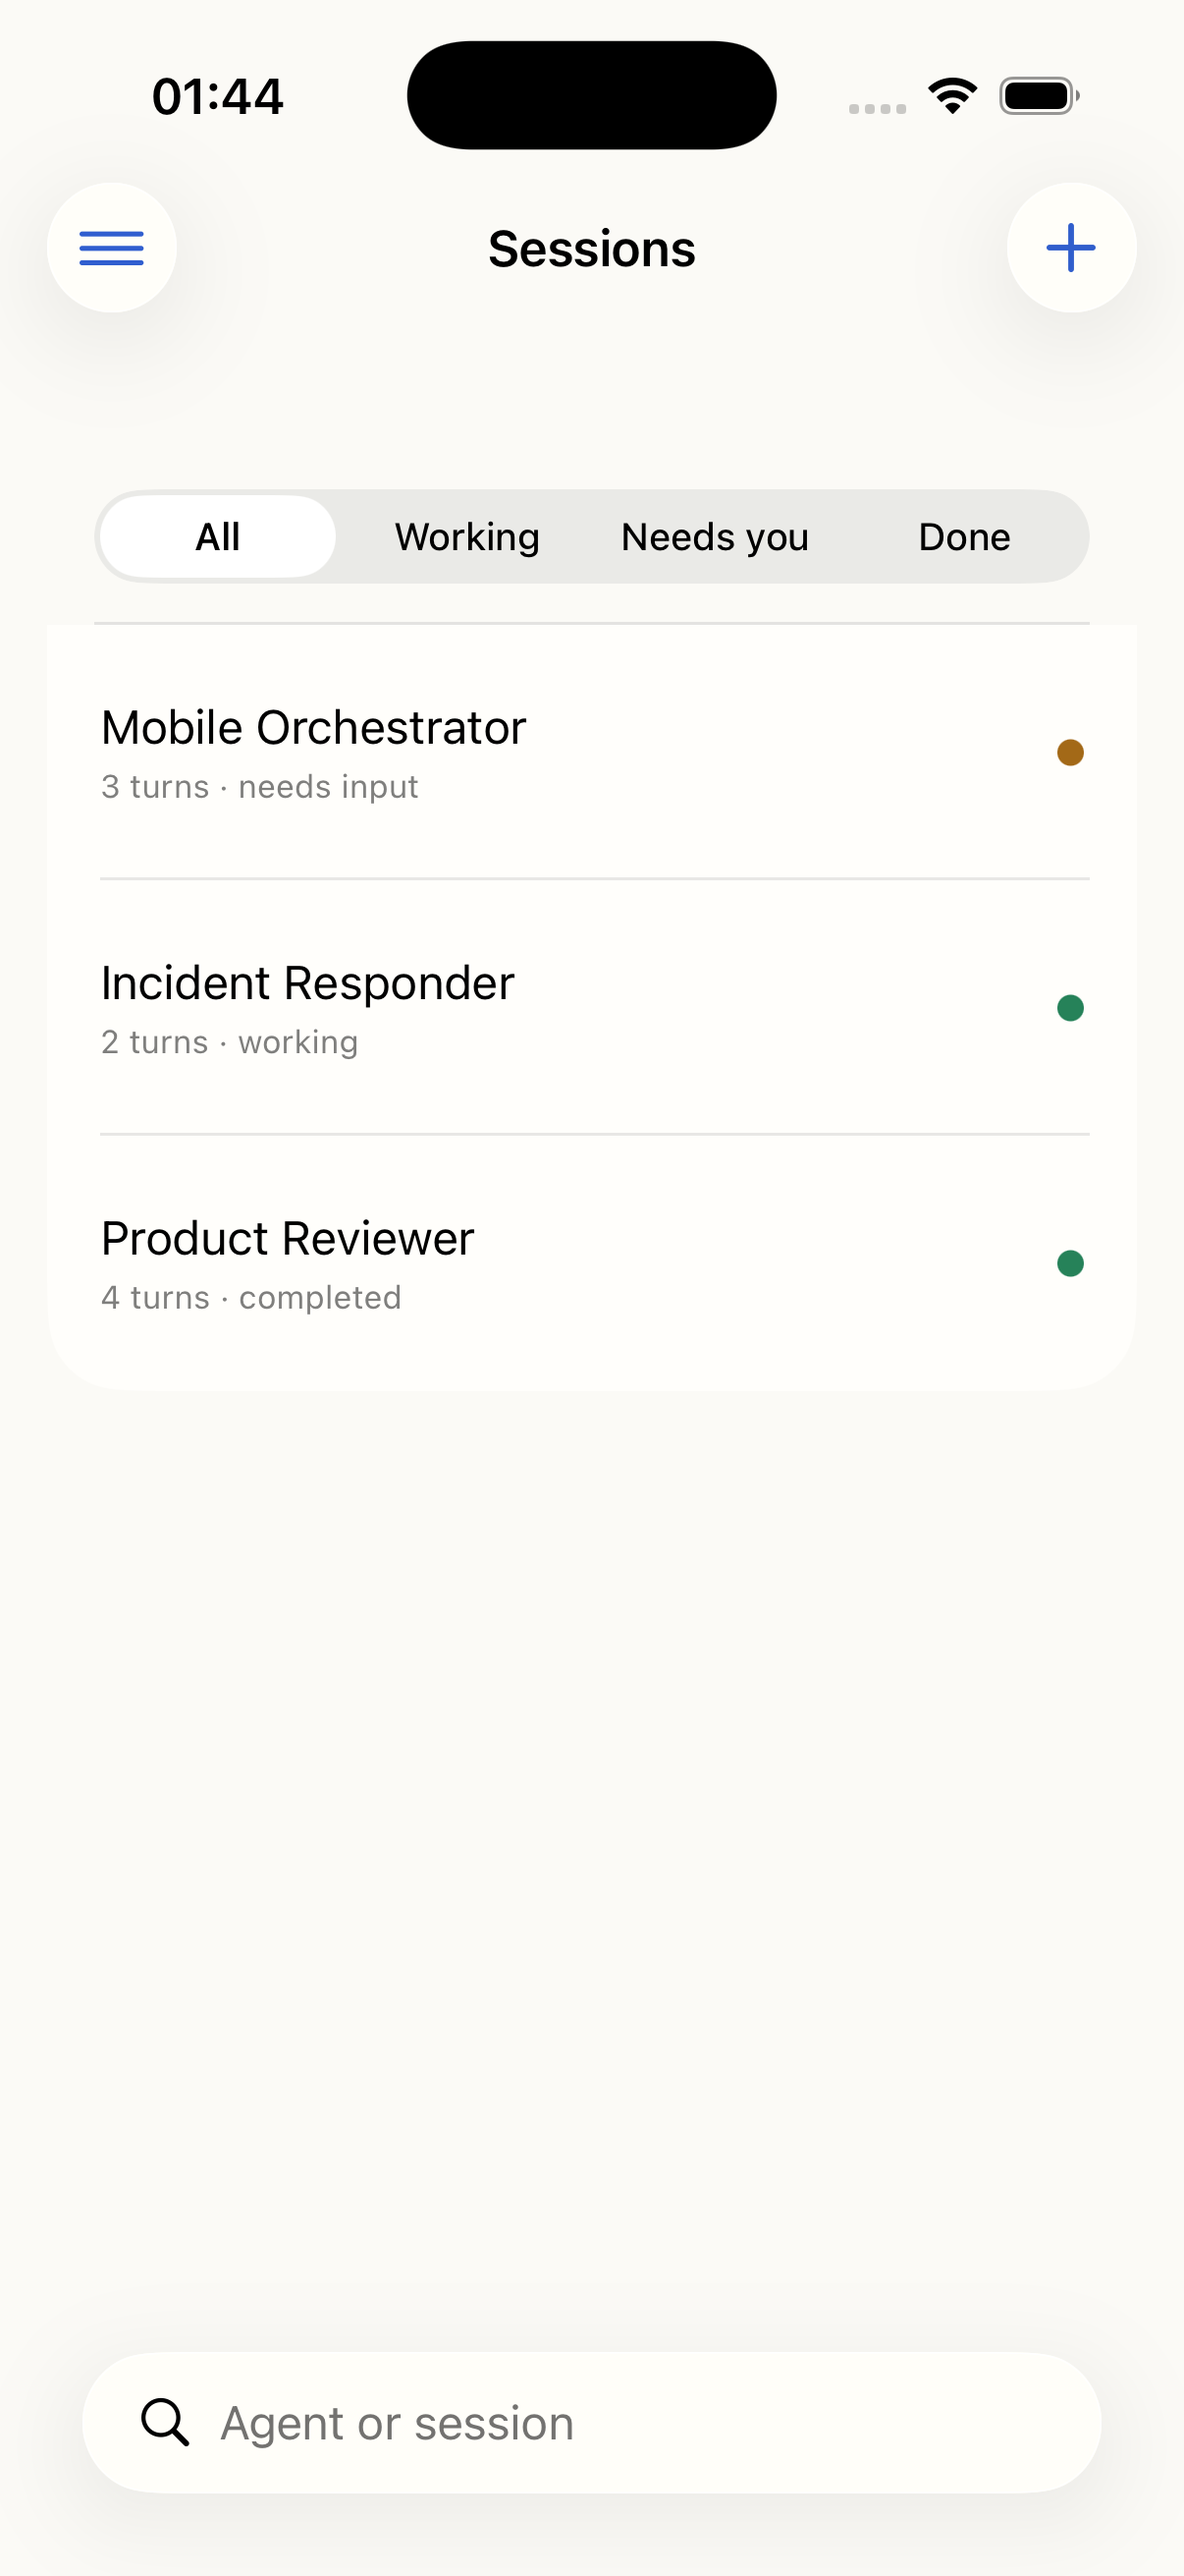
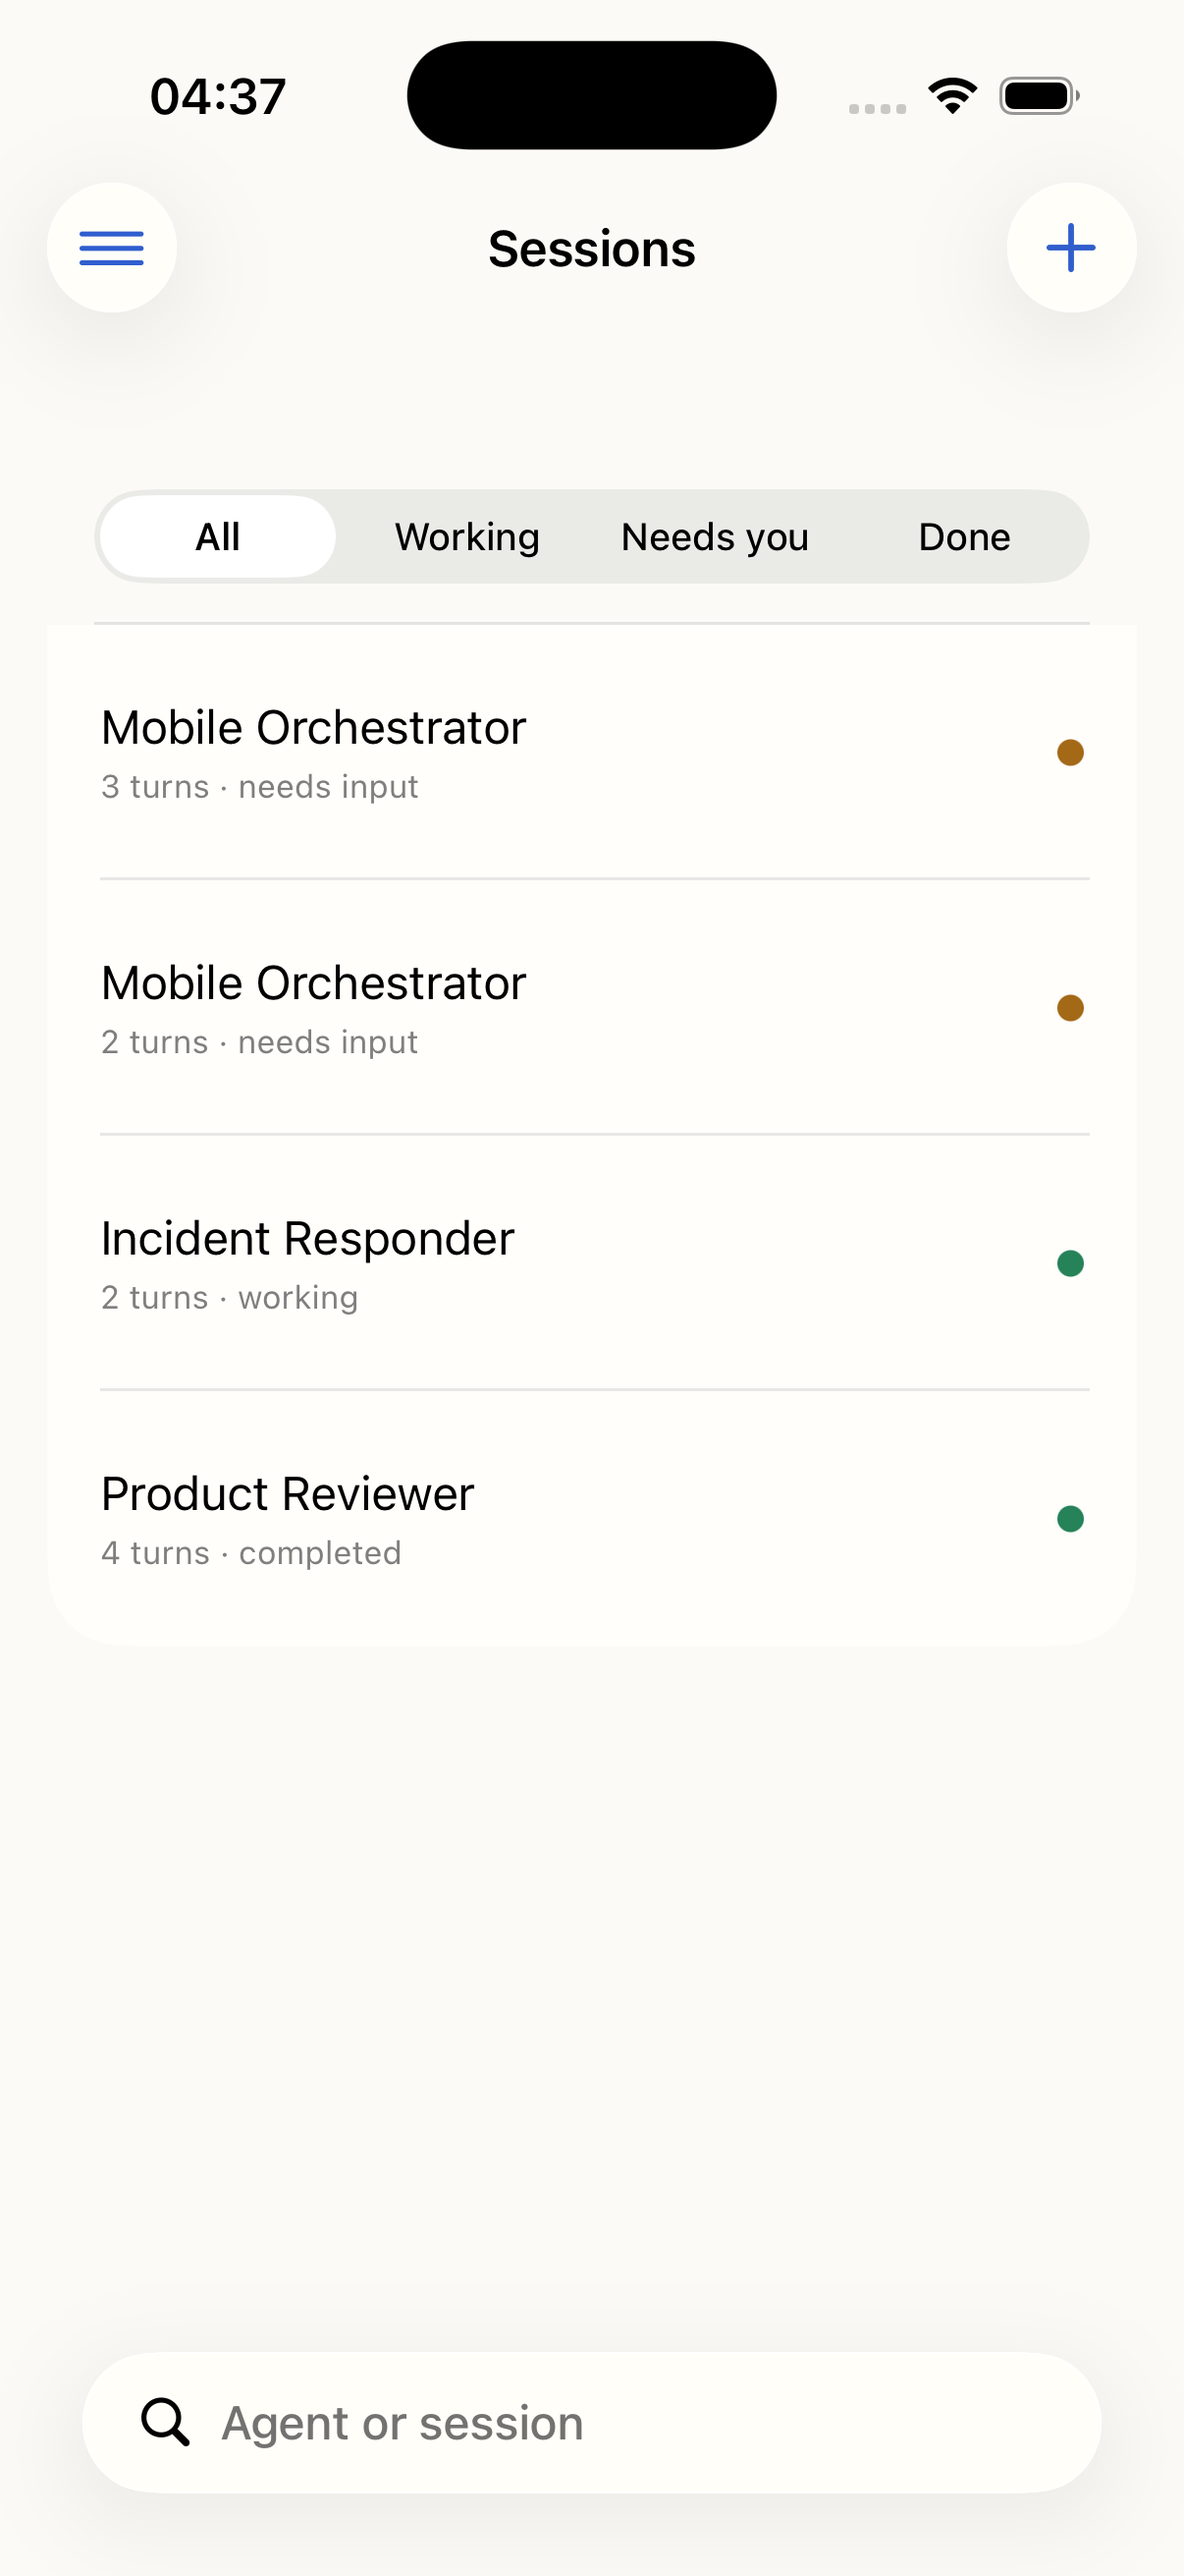
fix: present complete iOS task creation

diff --git a/mobile/iosApp/Sources/GariveIOS/TaskViews.swift b/mobile/iosApp/Sources/GariveIOS/TaskViews.swift
@@ -47,7 +47,9 @@ struct NewTaskView: View {
                     }
                 }
                 Section("Goal") {
-                    TextEditor(text: $prompt).frame(minHeight: 150)
+                    TextEditor(text: $prompt)
+                        .frame(minHeight: 150)
+                        .accessibilityLabel("Outcome for the Agent")
                     Text("Be specific about the outcome. The agent keeps working on your service if this app closes.")
                         .font(.footnote).foregroundStyle(.secondary)
                     if prompt.utf8.count > maxInputBytes {
@@ -76,7 +78,7 @@ struct NewTaskView: View {
                 prompt = model.state?.draft ?? ""
             }
             .onChange(of: prompt) { _, value in model.editDraft(value) }
-        }.presentationDetents(dynamicTypeSize.isAccessibilitySize ? [.large] : [.medium, .large])
+        }.presentationDetents([.large])
     }
 
     private var selectedID: String { definitionID.isEmpty ? agents.first?.definitionId ?? "" : definitionID }

diff --git a/mobile/iosApp/UITests/GariveIOSUITests.swift b/mobile/iosApp/UITests/GariveIOSUITests.swift
@@ -24,6 +24,9 @@ final class GariveIOSUITests: XCTestCase {
             app.navigationBars["New remote task"].waitForExistence(timeout: 2)
                 || app.navigationBars["New task"].waitForExistence(timeout: 2)
         )
+        let goal = app.textViews["Outcome for the Agent"]
+        XCTAssertTrue(goal.waitForExistence(timeout: 2))
+        XCTAssertTrue(goal.isHittable)
         let form = app.collectionViews.firstMatch
         let synthesize = starterButton("Synthesize", in: app)
         XCTAssertTrue(reveal(synthesize, in: form))

diff --git a/scripts/verify-mobile-evidence.py b/scripts/verify-mobile-evidence.py
@@ -49,21 +49,39 @@ def android_source_digest() -> str:
     return digest_files(paths)
 
 
+def ios_source_digest() -> str:
+    paths: list[Path] = []
+    for base in (
+        ROOT / "mobile/iosApp/Sources/GariveIOS",
+        ROOT / "mobile/shared/src/commonMain",
+    ):
+        paths.extend(path for path in base.rglob("*") if path.is_file())
+    paths.extend((
+        ROOT / "mobile/iosApp/GariveIOS.xcodeproj/project.pbxproj",
+        ROOT / "runtime/gateway/cmd/garive-mobile-demo-host/main.go",
+    ))
+    return digest_files(paths)
+
+
 def verify_candidate_evidence() -> None:
     evidence = json.loads(CANDIDATE_EVIDENCE.read_text())
     if evidence.get("schema_version") != 1:
         raise ValueError("unsupported mobile candidate-evidence schema")
-    actual_source = android_source_digest()
-    if evidence.get("android_source_digest") != actual_source:
+    if evidence.get("android_source_digest") != android_source_digest():
         raise ValueError("Android core screenshots must be recaptured after candidate source changes")
+    if evidence.get("ios_source_digest") != ios_source_digest():
+        raise ValueError("iOS core screenshots must be recaptured after candidate source changes")
     required = {
         "android-03-sessions.png",
         "android-05-new-task.png",
         "android-09-steering.png",
+        "ios-03-sessions.png",
+        "ios-05-new-task.png",
+        "ios-17-steering.png",
     }
     screenshots = evidence.get("screenshots", {})
     if set(screenshots) != required:
-        raise ValueError("Android core candidate evidence is incomplete")
+        raise ValueError("native core candidate evidence is incomplete")
     for name, expected in screenshots.items():
         path = ASSETS / name
         actual_hash = hashlib.sha256(path.read_bytes()).hexdigest()
@@ -82,8 +100,8 @@ def verify(artifacts: bool) -> None:
             f"mobile screenshot drift; missing={sorted(references - files)}, "
             f"unreferenced={sorted(files - references)}"
         )
-    if len(files) != 37 or "当前手册包含 37 张实际运行截图" not in text:
-        raise ValueError(f"manual must contain and declare exactly 37 screenshots, found {len(files)}")
+    if len(files) != 38 or "当前手册包含 38 张实际运行截图" not in text:
+        raise ValueError(f"manual must contain and declare exactly 38 screenshots, found {len(files)}")
 
     required = {
         "android-02-work-light.png",
@@ -114,7 +132,7 @@ def verify(artifacts: bool) -> None:
             raise ValueError(f"missing mobile delivery source: {path.relative_to(ROOT)}")
 
     status = (ROOT / "spec/STATUS.md").read_text()
-    if "complete 37-screenshot user guide" not in status:
+    if "complete 38-screenshot user guide" not in status:
         raise ValueError("spec/STATUS.md does not match the checked-in mobile evidence")
 
     if artifacts:

diff --git a/spec/STATUS.md b/spec/STATUS.md
@@ -75,7 +75,7 @@ planned without reopening a narrower completed row.
 | A-DESKTOP-WA | Governed Workspaces and artifacts | accepted | accepted | documented | partial | partial | active | Complete remaining accessibility/package matrices. Session detach has an idempotent durable receipt and restart-safe projection; global revoke journals a manifest-v2 tombstone and retries Keychain cleanup after restart. Artifact export now journals only bounded opaque pending IDs, removes the exact interrupted temporary when its directory is next explicitly authorized, preserves unrelated files, and never persists or exposes a path. Immutable receipt-bound Artifact projection, digest-verified preview and one-shot no-overwrite export are implemented, and the real SQLite approval-to-file-to-Artifact flow passes. |
 | A-DESKTOP-VE | Desktop visual, journey and manual evidence | accepted | accepted | documented | partial | missing | active | The deterministic evidence verifier, Chinese manual source, eight-page tagged draft and 18-entry outline are implemented. Unlock a supported Mac, execute the stable 62-row M01–M85 full-function capture matrix on the exact candidate, close visual defects, emit a digest-bound safe screenshot manifest, replace every pending marker, and independently verify PDF/UA plus VoiceOver reading order. Deterministic fixtures prove presentation only, never product behavior. |
 | A-MOBILE | KMP/Android/iOS shells | accepted | accepted | documented | implemented | verified | done | Keep KMP real-loopback transport, XCFramework, Swift, Android SDK 36 APK and API 36 Compose instrumentation gates green; remote physical-device connectivity is not claimed. |
-| A-MOBILE-R | Native remote-work mobile product | accepted | accepted | documented | implemented | partial | active | KMP controller, secure pairing, native Compose/SwiftUI product, installable builds, Gateway/private APNs/FCM wake paths, complete 37-screenshot user guide, real native loopback actions, offline/reconnect, desktop-aligned drawer and goal starters, local Session search/status filters, explicit rendered-conversation sharing, paired light Work/dark accessible Work evidence, Android landscape plus persistent-sidebar Android tablet/iPad evidence are verified locally. Ordinary Session rows and accessibility labels hide internal IDs. Agent details are exact and copyable, task creation preserves the selected definition, and remote submission uses one consistent 16 KiB UI/controller input boundary within a 64 KiB command envelope. Android's new-task sheet skips the ambiguous half-expanded state so Agent, starter, goal and Start on server are visible on first presentation at 320×640. Explicit approve/decline, collapsed Activity, multi-Turn append, cancellation and stable dismissible failure banners are directly exercised. Ambiguous mutations persist strict digest-bound identity/input records across process restart, including two-stage create/start recovery, exact retry and warned local abandonment; banner dismissal never clears pending work. Authentication failure returns both native shells to pairing. Pairing links on both platforms now pass one shared canonical HTTPS-origin boundary before presentation; Android singleTop delivery and visible service confirmation are exercised directly. Settings includes persistent theme, system notification controls, verified host, safe diagnostics and confirmed unpair; Android explicit theme choices survive a new platform-store instance, iOS Light and Dark survive application terminate/relaunch, and Android Keystore/Apple Keychain tests prove credential deletion and device-key rotation. Current local gates include 18 standard API 36 native tests plus four opt-in real-HTTP Host journeys (strict pairing links, full-shell Work → Sessions → committed create/start → cancel → second-Turn append, committed approval, committed decline, Light → Dark selection and the native Android share chooser), 9 Swift tests and 7 serial iOS Simulator XCUITests covering secure pairing, Remote navigation, Sessions plus direct local search/status filtering, real loopback create/start → cancel → second-Turn append, committed approval and committed decline, Activity, the native iOS share sheet, persistent Light → Dark → System selection, safe diagnostics, notification entry and confirmed unpair under accessibility-extra-large type. A fail-closed evidence verifier binds all 37 PNGs to the manual plus the native projects/specs/install artifacts, and binds the current Android Sessions/new-task/running-Conversation evidence to exact source and image digests; current Debug APK and arm64 Simulator App both pass cold-install/launch, while unsigned release outputs remain explicitly non-distributable. Close only with physical iOS/Android Gateway-to-Runtime create/reconnect/background/wake/decision/cancel/revoke evidence. |
+| A-MOBILE-R | Native remote-work mobile product | accepted | accepted | documented | implemented | partial | active | KMP controller, secure pairing, native Compose/SwiftUI product, installable builds, Gateway/private APNs/FCM wake paths, complete 38-screenshot user guide, real native loopback actions, offline/reconnect, desktop-aligned drawer and goal starters, local Session search/status filters, explicit rendered-conversation sharing, paired light Work/dark accessible Work evidence, Android landscape plus persistent-sidebar Android tablet/iPad evidence are verified locally. Ordinary Session rows and accessibility labels hide internal IDs. Agent details are exact and copyable, task creation preserves the selected definition, and remote submission uses one consistent 16 KiB UI/controller input boundary within a 64 KiB command envelope. Android's new-task sheet skips the ambiguous half-expanded state so Agent, starter, goal and Start on server are visible on first presentation at 320×640. Explicit approve/decline, collapsed Activity, multi-Turn append, cancellation and stable dismissible failure banners are directly exercised. Ambiguous mutations persist strict digest-bound identity/input records across process restart, including two-stage create/start recovery, exact retry and warned local abandonment; banner dismissal never clears pending work. Authentication failure returns both native shells to pairing. Pairing links on both platforms now pass one shared canonical HTTPS-origin boundary before presentation; Android singleTop delivery and visible service confirmation are exercised directly. Settings includes persistent theme, system notification controls, verified host, safe diagnostics and confirmed unpair; Android explicit theme choices survive a new platform-store instance, iOS Light and Dark survive application terminate/relaunch, and Android Keystore/Apple Keychain tests prove credential deletion and device-key rotation. Current local gates include 18 standard API 36 native tests plus four opt-in real-HTTP Host journeys (strict pairing links, full-shell Work → Sessions → committed create/start → cancel → second-Turn append, committed approval, committed decline, Light → Dark selection and the native Android share chooser), 9 Swift tests and 7 serial iOS Simulator XCUITests covering secure pairing, Remote navigation, Sessions plus direct local search/status filtering, real loopback create/start → cancel → second-Turn append, committed approval and committed decline, Activity, the native iOS share sheet, persistent Light → Dark → System selection, safe diagnostics, notification entry and confirmed unpair under accessibility-extra-large type. A fail-closed evidence verifier binds all 38 PNGs to the manual plus the native projects/specs/install artifacts, and binds the current Android and iOS Sessions/new-task/running-Conversation evidence to exact source and image digests; current Debug APK and arm64 Simulator App both pass cold-install/launch, while unsigned release outputs remain explicitly non-distributable. Close only with physical iOS/Android Gateway-to-Runtime create/reconnect/background/wake/decision/cancel/revoke evidence. |
 | A-UX1-A | Shared product controller | accepted | accepted | documented | implemented | verified | done | Keep exact TypeScript/KMP fixture parity, strict fixture readers, Host projection, correlation, mutation, reconnect, activity, preference and native XCFramework gates green. |
 | A-UX1 | Product client experience | accepted | accepted | partial | partial | partial | active | UX-A, Desktop UX-B and the Web presentation/transport implementation are complete: Desktop and Web mount one React Work UI and controller with semantic visual tokens, truthful optional capacity presentation, exact create/start/cancel/text-or-boolean continuation, bounded preference/pending recovery, lifecycle-priority navigation, keyboard task control, explicit reconnect and shared screenshot presentation. Close the capacity source adapter, UX-C real Runtime same-machine Web E2E, remaining localization and physical-device accessibility matrices; Web captures never substitute for macOS native evidence. |
 | G0 | Go Gateway | accepted | accepted | documented | implemented | verified | done | Keep TLS-only edge composition, one-time device pairing, route/header admission, SSE passthrough, expiry/revocation and race tests green; durable multi-instance grants are a later slice. |

diff --git a/mobile/iosApp/README.md b/mobile/iosApp/README.md
@@ -55,11 +55,13 @@ xcodebuild -project GariveIOS.xcodeproj -target GariveIOS \
 The seven UI tests require `go run ./cmd/garive-mobile-demo-host` from
 `runtime/gateway/` for the six connected journeys. They exercise secure
 pairing fields, the Remote drawer, Sessions search/status filtering, new-task starters and enabled
-server submit control plus an actual loopback create/start, cancellation and
+server submit control in a fully expanded sheet plus an actual loopback create/start, cancellation and
 second-Turn append in the opened Conversation, collapsed Activity, approve/decline and cancellation
 confirmation, committed real-Host `Approve once` and `Decline` results, safe
 diagnostics, notification entry, the native system share sheet with its Copy
-activity, and confirmed unpair.
+activity, and confirmed unpair. The new-task goal editor has a stable
+accessibility label, and UI coverage requires it to be visible and hittable on
+first presentation.
 The Settings journey additionally selects Light, Dark, and System and verifies
 the native segmented-control state after every change. It terminates and
 relaunches the shipping app after both explicit choices to prove AppStorage
